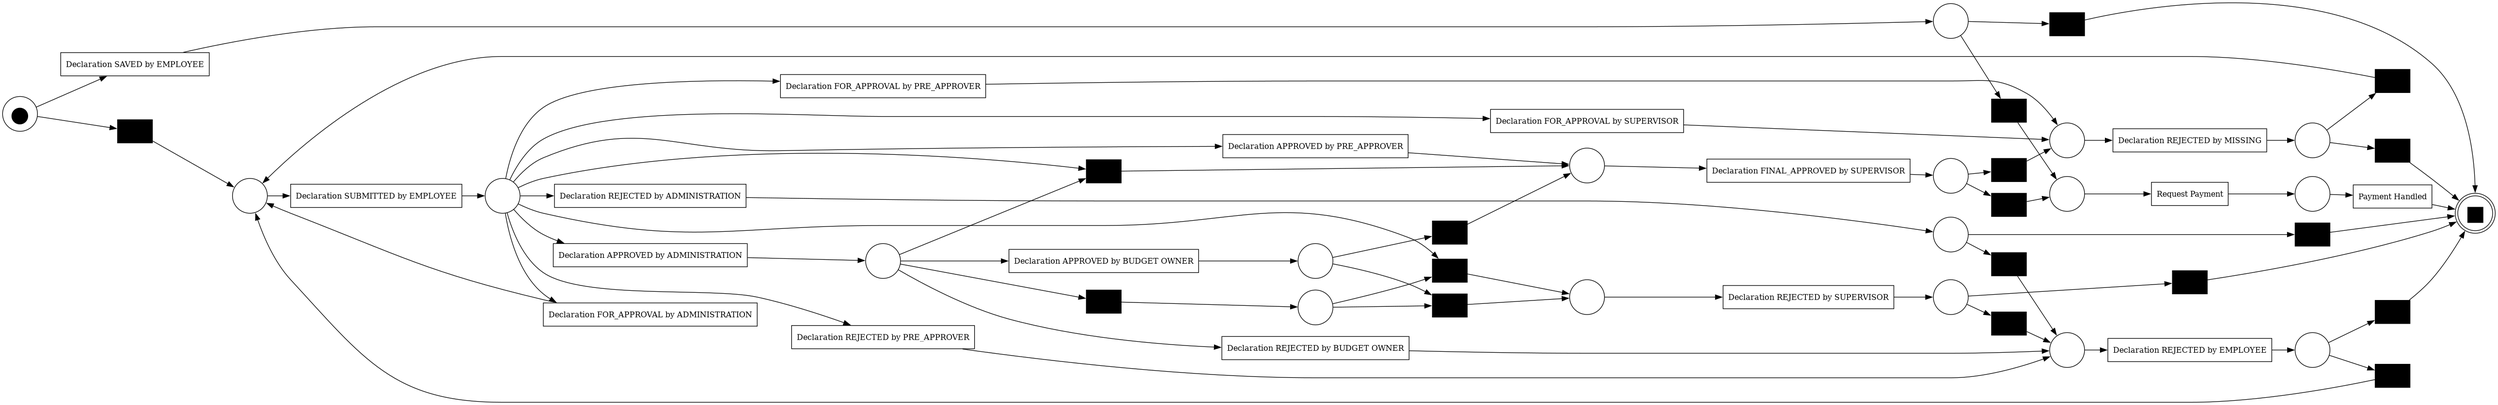
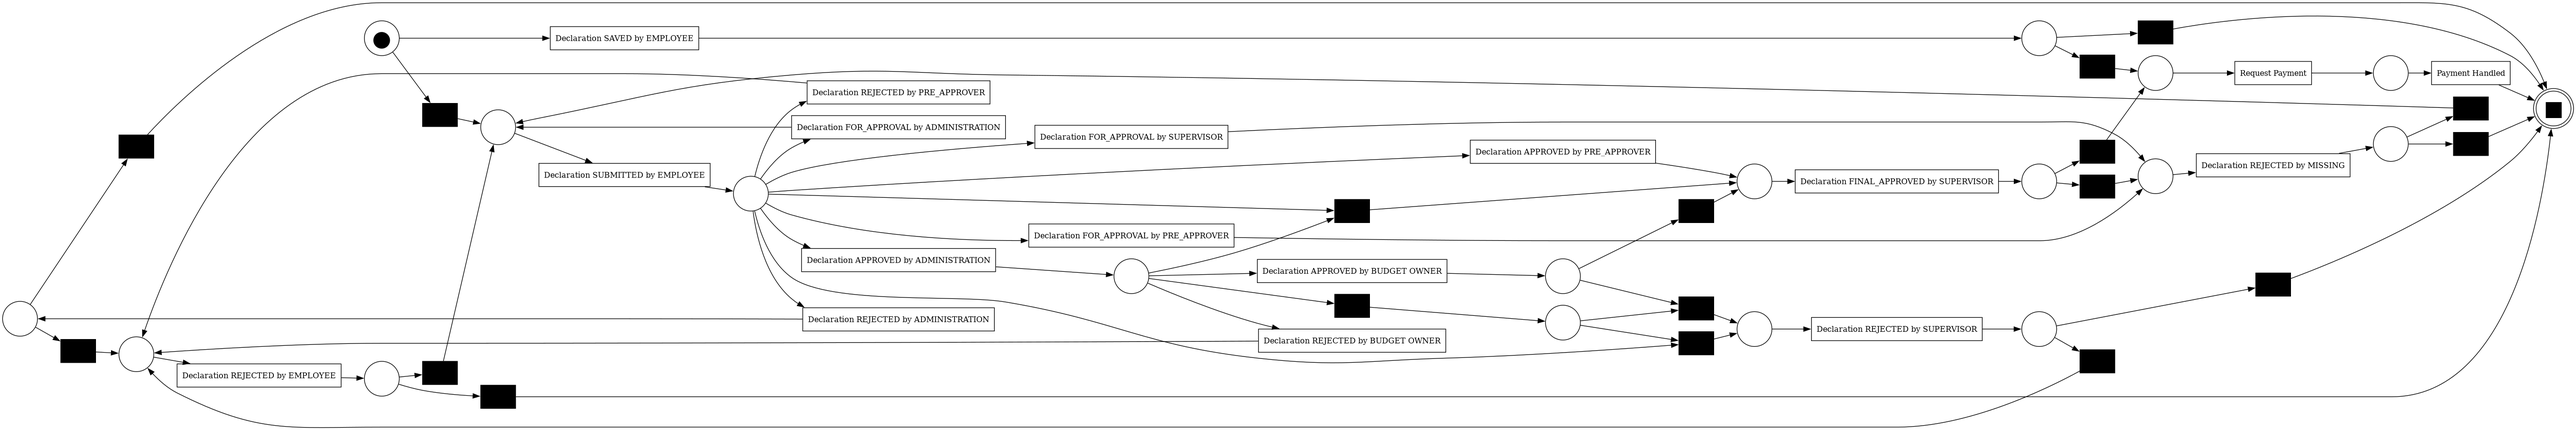
Images

diff --git a/content/anhang.tex b/content/anhang.tex
@@ -36,12 +36,132 @@
     \end{tabular}
 \end{table}
 
-\begin{figure}
-    \centering
-    \includegraphics{figures/python/dom_pn}
-    \caption{Heuristik-Modell des Domestic-Prozesses (PM4Py, F1=0,895, log-fitness=0,925, trace-average-fitness=0,919, simplicity=0,587)}
-    \label{pn:dom_base}
+\section{Python}
+	\begin{figure}[htbp]
+		\centering
+		\includegraphics[width=\textwidth]{figures/python/dom_pn}
+		\caption{Heuristik-Modell des Domestic-Prozesses (PM4Py, F1=0,895, log-fitness=0,925, trace-average-fitness=0,919, simplicity=0,587)}
+		\label{pn:dom_base}
+	\end{figure}
+	\begin{figure}[htbp]
+		\centering
+		\includegraphics[width=\textwidth]{figures/python/int_pn}
+		\caption{Heuristik-Modell des International-Prozesses (PM4Py, F1=0,907, log-fitness=0,901, trace-average-fitness=0,896, simplicity=0,500)}
+		\label{pn:int_base}
+	\end{figure}
+	\begin{figure}[htbp]
+		\centering
+		\includegraphics{figures/python/domestic_bpmn_entities}
+		\caption{Domestic-Log: Entitäten-Abhängigkeiten im BPMN-Modell mit noise-threshold=1/100}
+		\label{fig:domestic_bpmn_entities}
+	\end{figure}
+	\begin{figure}[htbp]
+		\centering
+		\includegraphics{figures/python/international_bpmn_entities}
+		\caption{International-Log: Entitäten-Abhängigkeiten im BPMN-Modell mit noise-threshold=1/100}
+		\label{fig:international_bpmn_entities}
+	\end{figure}
+	\begin{figure}[htbp]
+		\centering
+		\includegraphics[width=\textwidth]{figures/python/stats_per_log}
+		\caption{F1-Statistik je Teillog je Prozessvariante}
+		\label{fig:stats_per_log}
+	\end{figure}
+	\begin{figure}[htbp]
+		\centering
+		\includegraphics[width=\textwidth]{figures/python/int_pn_no_trip}
+		\caption{Heuristik-Modell des International-Logs ohne Trip [int\_without\_trips]}
+		\label{fig:int_pn_no_trip}
+	\end{figure}
+	\begin{figure}[htbp]
+		\centering
+		\includegraphics[width=\textwidth]{figures/python/int_pn_just_decl}
+		\caption{Heuristik-Modell des International-Logs ohne Trips ohne Permit-enthaltenen Logs [int\_decl\_only]}
+		\label{fig:int_pn_just_decl}
+	\end{figure}
+	\begin{figure}[htbp]
+		\centering
+		\includegraphics[width=\textwidth]{figures/python/int_pn_jw_permit}
+		\caption{Heuristik-Modell des International-Logs ohne Trips mit nur Permit-enthaltenen Logs [int\_permit]}
+		\label{fig:int_pn_jw_permit}
+	\end{figure}
+	\begin{figure}[htbp]
+		\centering
+		\includegraphics[width=\textwidth]{figures/python/all_decl_wo_trips}
+		\caption{Heuristik-Modell des Domestic-Logs kombiniert mit allen Non-Permit-Logs aus International ohne Trips [all\_decl\_only]}
+		\label{fig:all_decl_wo_trips}
+	\end{figure}
+\subsubsection{Prozess vor 2018}
+Für diese Analyse wurden alle Trip-Aktivitäten entfernt.
+\begin{figure}[htbp]
+	\centering
+	\includegraphics[width=\textwidth]{figures/python/dom_pre2018}
+	\caption{Heuristik-Modell des Domestic-Prozesses vor 2018 [domestic\_before\_2018]}
+	\label{fig:dom_pre2018}
 \end{figure}
+\begin{figure}[htbp]
+	\centering
+	\includegraphics[width=\textwidth]{figures/python/int_nt_pre2018}
+	\caption{Heuristik-Modell des International-Logs ohne Trips vor 2018 [int\_without\_trips\_before\_2018]}
+	\label{fig:int_nt_pre2018}
+\end{figure}
+\begin{figure}[htbp]
+	\centering
+	\includegraphics[width=\textwidth]{figures/python/all_decl_pre2018}
+	\caption{Heuristik-Modell des kombinierten Declaration-Logs vor 2018 [all\_decl\_only\_before\_2018]}
+	\label{fig:all_decl_pre2018}
+\end{figure}
+\begin{figure}[htbp]
+	\centering
+	\includegraphics[width=\textwidth]{figures/python/int_decl_pre2018}
+	\caption{Heuristik-Modell des International-Logs ohne Trips mit Declaration-Traces vor 2018 [int\_decl\_only\_without\_trips\_before\_2018]}
+	\label{fig:int_decl_pre2018}
+\end{figure}
+\begin{figure}[htbp]
+	\centering
+	\includegraphics[width=\textwidth]{figures/python/int_permit_pre2018}
+	\caption{Heuristik-Modell des International-Logs ohne Trips mit Permit-Traces vor 2018 [int\_permit\_without\_trips\_before\_2018]}
+	\label{fig:int_permit_pre2018}
+\end{figure}
+
+
+\subsubsection{Prozess ab 2018}
+Für diese Analyse wurden alle Trip-Aktivitäten entfernt.
+\begin{figure}[htbp]
+	\centering
+	\includegraphics[width=\textwidth]{figures/python/dom_post2018}
+	\caption{Heuristik-Modell des Domestic-Prozesses ab 2018 [domestic\_from\_2018]}
+	\label{fig:dom_post2018}
+\end{figure}
+\begin{figure}[htbp]
+	\centering
+	\includegraphics[width=\textwidth]{figures/python/int_nt_post2018}
+	\caption{Heuristik-Modell des International-Logs ohne Trips ab 2018 [int\_without\_trips\_from\_2018]}
+	\label{fig:int_nt_post2018}
+\end{figure}
+\begin{figure}[htbp]
+	\centering
+	\includegraphics[width=\textwidth]{figures/python/all_decl_post2018}
+	\caption{Heuristik-Modell des kombinierten Declaration-Logs ab 2018 [all\_decl\_only\_from\_2018]}
+	\label{fig:all_decl_post2018}
+\end{figure}
+\begin{figure}[htbp]
+	\centering
+	\includegraphics[width=\textwidth]{figures/python/int_decl_post2018}
+	\caption{Heuristik-Modell des International-Logs ohne Trips mit Declaration-Traces ab 2018 [int\_decl\_only\_without\_trips\_from\_2018]}
+	\label{fig:int_decl_post2018}
+\end{figure}
+\begin{figure}[htbp]
+	\centering
+	\includegraphics[width=\textwidth]{figures/python/int_permit_post2018}
+	\caption{Heuristik-Modell des International-Logs ohne Trips mit Permit-Traces ab 2018 [int\_permit\_without\_trips\_from\_2018]}
+	\label{fig:int_permit_post2018}
+\end{figure}
+
+\subsubsection{Vollstatistiken}
+
+\newpage
+\section{Celonis}
 \begin{figure}[htbp]
 	\centering
 	% --- Obere Zeile: BPMN-Referenzmodelle (International) ---
